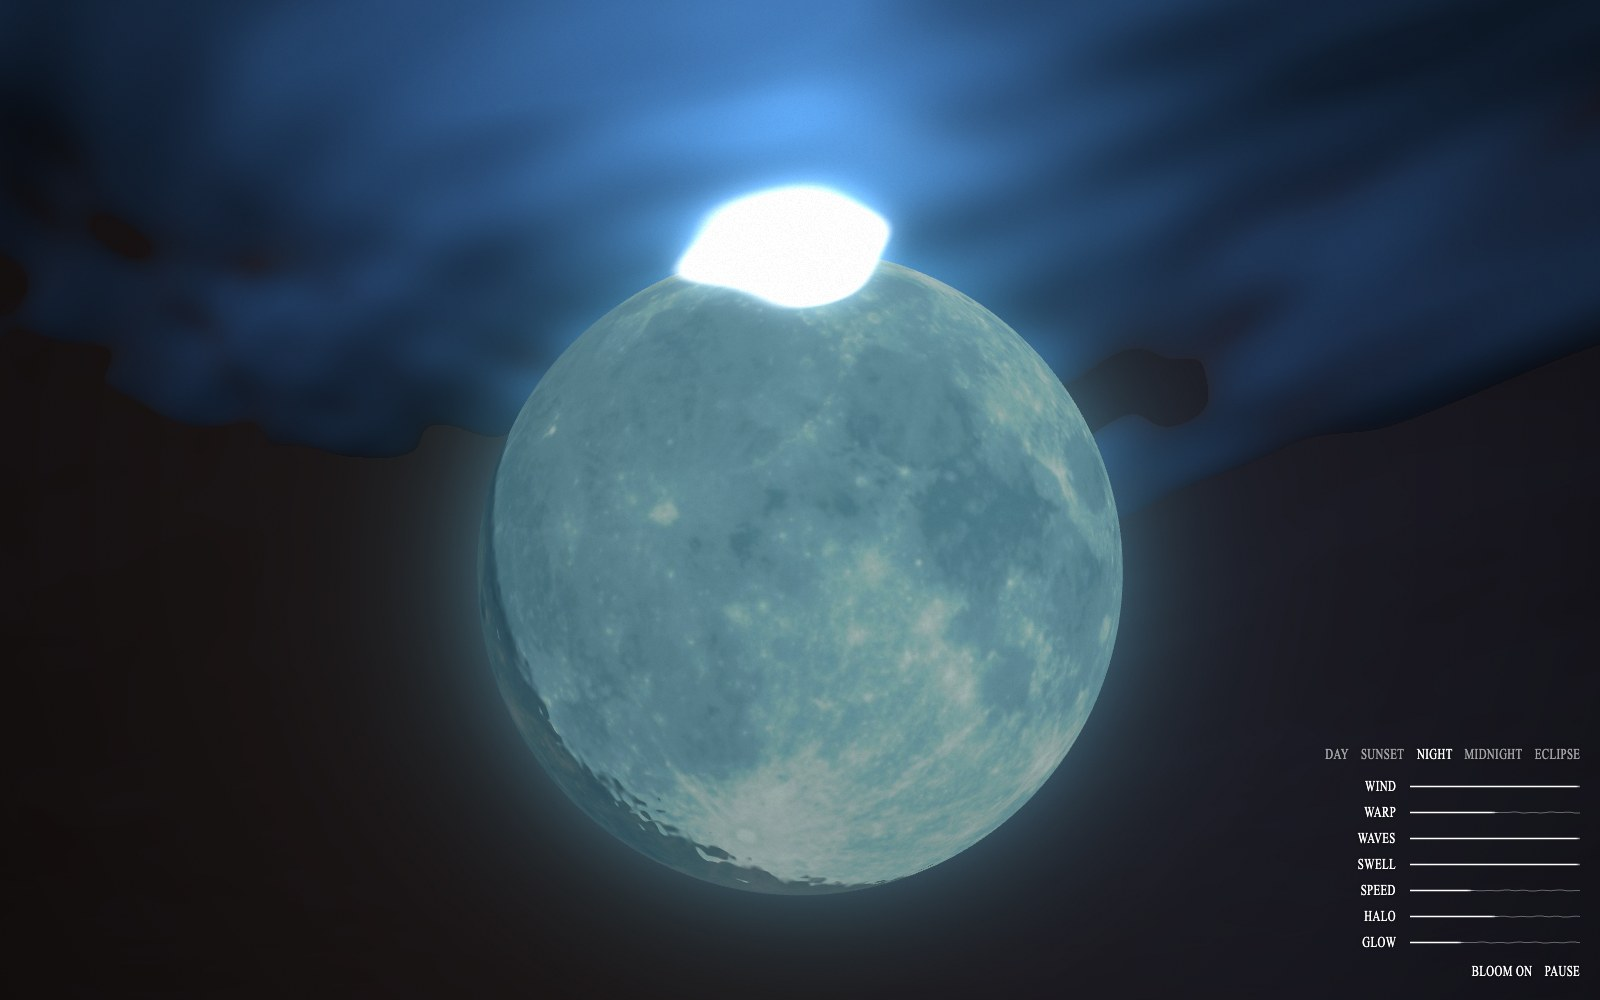
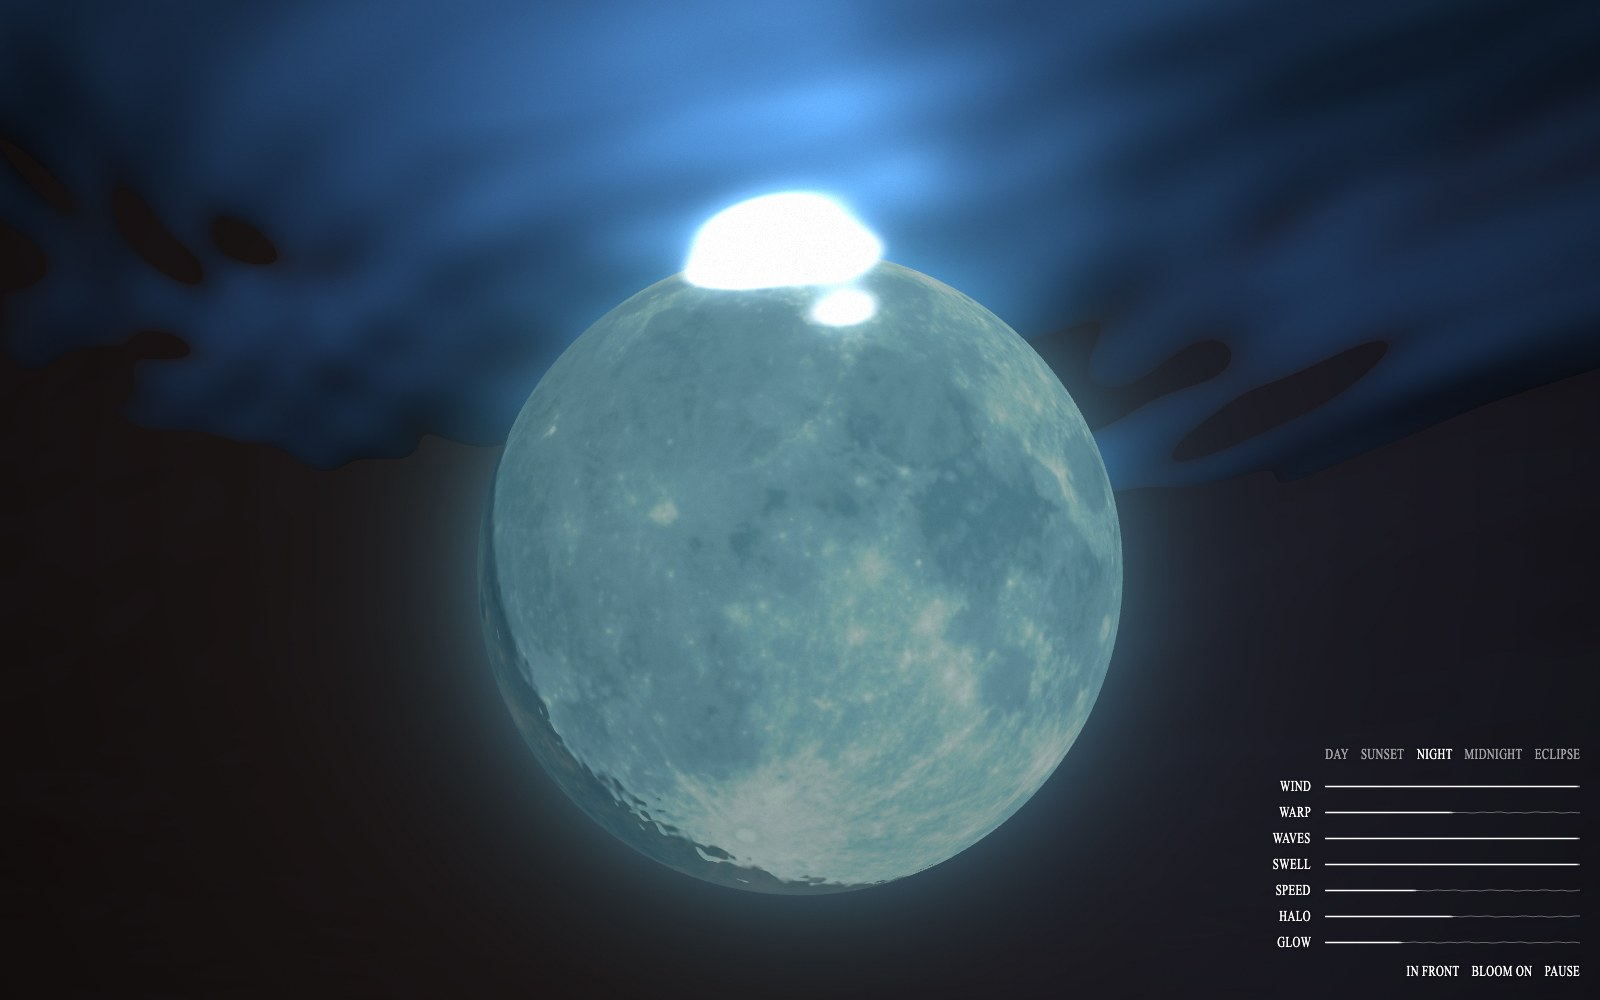
Moon behind the water; lines aligned under the presets
The In front / Behind button moves the moon up behind the surface, where it's
seen through the moving water (off-screen render looked up with refraction
offsets, Fresnel and total internal reflection). The water now has a fixed
anchor so it stays put when the moon moves. Slider lines reach left to line up
under the first sky preset. README screenshots refreshed, two added.

diff --git a/public/games/flymetothemoon/index.html b/public/games/flymetothemoon/index.html
@@ -21,7 +21,7 @@
   #scene.grabbing { cursor: grabbing; }
   .controls {
     position: fixed; right: 20px; bottom: calc(18px + env(safe-area-inset-bottom, 0px));
-    display: grid; grid-template-columns: auto clamp(110px, 18vw, 170px); column-gap: 14px; row-gap: 4px; align-items: center;
+    display: grid; grid-template-columns: auto var(--line-w, clamp(110px, 18vw, 170px)); column-gap: 14px; row-gap: 4px; align-items: center;
     font-family: var(--font-label); font-size: 15px; color: var(--ink);
     text-transform: uppercase; letter-spacing: 0.04em; text-shadow: 0 0 6px rgba(0, 0, 0, 0.55);
   }
@@ -67,6 +67,7 @@
   <label for="halo"><span class="squeeze">Halo</span></label><div class="line"><canvas aria-hidden="true"></canvas><input id="halo" type="range" min="0" max="2" step="0.01" value="1"></div>
   <label for="glow"><span class="squeeze">Glow</span></label><div class="line"><canvas aria-hidden="true"></canvas><input id="glow" type="range" min="0" max="2" step="0.01" value="0.6"></div>
   <div class="buttons">
+    <button id="moonpos" type="button" aria-pressed="false" aria-label="Moon in front of or behind the water"><span class="squeeze">In front</span></button>
     <button id="bloom" type="button" aria-pressed="true"><span class="squeeze">Bloom on</span></button>
     <button id="pause" type="button"><span class="squeeze">Pause</span></button>
   </div>
@@ -104,8 +105,12 @@
   const uniforms = {
     uTime: { value: 0 },
     uRes: { value: new THREE.Vector2(1, 1) },
-    uMoon: { value: new THREE.Vector2(0, 0) },   // moon centre in device pixels (bottom-left origin)
-    uMoonR: { value: 100 },                      // moon radius in device pixels
+    uMoon: { value: new THREE.Vector2(0, 0) },   // the scene's anchor: where the moon sits in the water, device pixels (bottom-left origin)
+    uMoonR: { value: 100 },                      // the moon's radius there, device pixels (the scene's unit)
+    uMoonC: { value: new THREE.Vector2(0, 0) },  // where the moon actually is right now
+    uMoonRC: { value: 100 },                     // and its actual radius
+    uAbove: { value: 0 },                        // 0: moon in the water, 1: moon in the sky above it
+    uMoonTex: { value: null },                   // the moon rendered off-screen, for viewing through the surface
     uSim: { value: null },                       // simulated height field
     uSwell: { value: 0.8 },
     uChop: { value: 0.9 },
@@ -217,7 +222,10 @@
   // =====================================================================================
   const CAM = { FS: 0.25, ALPHA: 0.648, DEPTH: 3.0, TILE: 20.0 };
   const WATER = `
-      uniform float uHaloGain;
+      uniform float uHaloGain, uMoonRC, uAbove;
+      uniform vec2 uMoonC;
+      uniform sampler2D uMoonTex;
+      vec3 gN = vec3(0.0, 1.0, 0.0); float gT = 0.0;   // surface normal and transmission at the last lookUp
       uniform vec3 uDeepL, uDeepR, uUpLight, uSkyLow, uSkyHigh, uGlowA, uGlowB, uHalo, uImage, uBloomTint;
       uniform sampler2D uSim; uniform float uTime, uSwell, uChop, uWarp, uChopMode, uLimit, uScale; uniform vec2 uMoon; uniform float uMoonR;
       const float FS = ${CAM.FS}, ALPHA = ${CAM.ALPHA}, DEPTH = ${CAM.DEPTH.toFixed(1)}, TILE = ${CAM.TILE.toFixed(1)};
@@ -355,17 +363,20 @@
       vec4 lookUp(vec2 s){
         float u = 0.506 + s.x*0.2375;                      // horizontal position across the view, for the palette
         vec3 d = viewRay(s);
+        gT = 0.0;
         if (d.y < 0.03) return vec4(underwater(d, u), 0.0); // looking sideways: just water
         float dist = DEPTH / d.y;
         vec2 xz = d.xz * dist;
         vec3 sl = surfaceSlope(xz, dist);
         vec3 N = normalize(vec3(-sl.x, 1.0, -sl.y));
+        gN = N;
         vec3 r = refract(d, -N, 1.333);
         vec3 deepR = underwater(reflect(d, -N), u);         // the surface's mirror of the water below
         if (dot(r, r) < 1e-6) return vec4(deepR, 0.0);     // total internal reflection
         float cosT = max(dot(r, N), 0.0);
         float F = 0.0204 + 0.9796*pow(1.0 - cosT, 5.0);    // Fresnel (Schlick, from the air side)
         float T = 1.0 - F;
+        gT = T;
         // night sky through the surface: #122238 near the horizon to #295075 high up
         float el = clamp(r.y, 0.0, 1.0);
         vec3 sky = mix(uSkyLow, uSkyHigh, smoothstep(0.05, 0.9, el));
@@ -384,11 +395,20 @@
   bgScene.add(quad(new THREE.ShaderMaterial({
     uniforms, depthTest: false, depthWrite: false, vertexShader: flatVS,
     fragmentShader: WATER + `
+      uniform vec2 uRes;
       void main(){
         vec2 s = screenPos();
         vec3 col = lookUp(s).rgb;
-        // halo: sharp edge, then a short exponential fall-off (#37586c at 1.03R to background by ~1.45R)
-        col += uHalo * uHaloGain * exp(-max(length(s) - 0.99, 0.0)/0.19);
+        // the moon above the water, seen through the moving surface: looked up at a position bent by
+        // the surface's slope, dimmed by Fresnel near the window's edge, gone past the critical angle
+        float vis = uAbove * gT;
+        if (vis > 0.001) {
+          vec4 m = texture2D(uMoonTex, gl_FragCoord.xy/uRes + vec2(gN.x, gN.z)*0.08);
+          col = col*(1.0 - m.a*vis) + m.rgb*vis;
+        }
+        // halo around wherever the moon is: sharp edge, then a short exponential fall-off
+        vec2 sm = (gl_FragCoord.xy - uMoonC) / uMoonRC;
+        col += uHalo * uHaloGain * exp(-max(length(sm) - 0.99, 0.0)/0.19) * mix(1.0, gT, uAbove);
         gl_FragColor = vec4(col, 1.0);
       }`
   })));
@@ -412,6 +432,7 @@
     uMoonMul: { value: new THREE.Vector3(1, 1, 1) },      // tint
     uMoonMix: { value: new THREE.Vector4(1, 1, 1, 0) },   // colour to wash toward, and how far
     uMoonDark: { value: new THREE.Vector3() },            // colour of the shadowed crescent
+    uMoonFade: { value: 1 },                              // overall opacity (cross-fade when it moves into the sky)
     uMoonSee: { value: 0 },                               // daytime see-through: dark seas let the sky show
     uRelief: { value: 0 },                                // crater relief across the whole face (0 = only at the shadow edge)
   };
@@ -440,7 +461,7 @@
           gl_Position = projectionMatrix * modelViewMatrix * vec4(position,1.0);
         }`,
       fragmentShader: `
-        uniform sampler2D uMap, uNormal; uniform vec3 uLight, uMoonMul, uMoonDark; uniform vec4 uMoonMix; uniform float uMoonSee, uRelief;
+        uniform sampler2D uMap, uNormal; uniform vec3 uLight, uMoonMul, uMoonDark; uniform vec4 uMoonMix; uniform float uMoonSee, uRelief, uMoonFade;
         varying vec2 vUv; varying vec3 vN; varying vec3 vT;
         void main(){
           vec3 albedo = texture2D(uMap, vUv, 1.6).rgb;
@@ -467,7 +488,7 @@
           // brightest highlands stay solid
           float bright = smoothstep(0.43, 0.66, dot(albedo, vec3(0.2126, 0.7152, 0.0722)));
           float see = mix(1.0, bright, uMoonSee);
-          gl_FragColor = vec4(col, smoothstep(0.0, 0.16, N.z) * see);
+          gl_FragColor = vec4(col, smoothstep(0.0, 0.16, N.z) * see * uMoonFade);
         }`
     })
   );
@@ -488,7 +509,7 @@
         vec2 s = screenPos();
         if (viewRay(s).y < 0.03) { gl_FragColor = vec4(0.0); return; }
         float m = lookUp(s).w;
-        gl_FragColor = vec4(uImage, clamp(m*1.15, 0.0, 1.0));
+        gl_FragColor = vec4(uImage, clamp(m*1.15, 0.0, 1.0) * (1.0 - 0.92*uAbove));
       }`
   })));
 
@@ -508,7 +529,7 @@
           vec2 sp = (base + o - uMoon) / uMoonR; sp.y = -sp.y;
           if (viewRay(sp).y >= 0.03) acc += lookUp(sp).w;
         }
-        gl_FragColor = vec4(uBloomTint * acc * 0.25 * uGlow, 1.0);
+        gl_FragColor = vec4(uBloomTint * acc * 0.25 * uGlow * (1.0 - 0.92*uAbove), 1.0);
       }`
   })));
   const blurMat = new THREE.ShaderMaterial({
@@ -598,13 +619,17 @@
     const radius = Math.max(0.016, Math.min(0.027, 0.068 / p[2]));
     if (drops.length < 8) drops.push(new THREE.Vector4(u, v, strength, radius));
   }
-  const onMoon = s => Math.hypot(s[0], s[1]) < 1.0;
+  const onMoon = e => {
+    const pr = renderer.getPixelRatio();
+    const fx = e.clientX * pr, fy = (window.innerHeight - e.clientY) * pr;
+    return Math.hypot(fx - uniforms.uMoonC.value.x, fy - uniforms.uMoonC.value.y) < uniforms.uMoonRC.value;
+  };
 
   canvas.addEventListener('pointerdown', e => {
     const s = toS(e);
     canvas.setPointerCapture(e.pointerId);
     last = { x: e.clientX, y: e.clientY, t: performance.now() };
-    if (onMoon(s)) {
+    if (onMoon(e)) {
       grabbing = true; touched = true; omega.set(0, 0, 0);   // caught
       lastMoveAt = last.t; canvas.classList.add('grabbing');
     } else {
@@ -613,7 +638,7 @@
   });
   canvas.addEventListener('pointermove', e => {
     const s = toS(e);
-    canvas.classList.toggle('over-moon', onMoon(s));
+    canvas.classList.toggle('over-moon', onMoon(e));
     if (stirring) {
       if (Math.hypot(e.clientX - last.x, e.clientY - last.y) > 10) { dropAt(s[0], s[1], 0.01); last = { x: e.clientX, y: e.clientY, t: performance.now() }; }
       return;
@@ -624,7 +649,7 @@
     const dt = Math.max((now - last.t) / 1000, 1 / 240);
     const dist = Math.hypot(dx, dy);
     if (dist > 0) {
-      const rCss = uniforms.uMoonR.value / renderer.getPixelRatio();
+      const rCss = uniforms.uMoonRC.value / renderer.getPixelRatio();
       const angle = dist / rCss;
       const axis = screenAxis(dx, dy).clone();
       rotateBy(axis, angle);
@@ -656,6 +681,13 @@
   document.getElementById('halo').addEventListener('input', e => uniforms.uHaloGain.value = parseFloat(e.target.value));
   document.getElementById('glow').addEventListener('input', e => glowU.value = parseFloat(e.target.value));
   let bloomOn = true;
+  const moonBtn = document.getElementById('moonpos');
+  moonBtn.addEventListener('click', () => {
+    aboveTo = aboveTo ? 0 : 1;
+    moonBtn.firstElementChild.textContent = aboveTo ? 'Behind' : 'In front';
+    moonBtn.setAttribute('aria-pressed', String(!!aboveTo));
+    tightenRows();
+  });
   const bloomBtn = document.getElementById('bloom');
   bloomBtn.addEventListener('click', () => {
     bloomOn = !bloomOn;
@@ -667,6 +699,8 @@
   const pauseBtn = document.getElementById('pause');
   pauseBtn.addEventListener('click', () => { paused = !paused; pauseBtn.firstElementChild.textContent = paused ? 'Play' : 'Pause'; tightenRows(); });
 
+  const rtMoon = new THREE.WebGLRenderTarget(2, 2, { minFilter: THREE.LinearFilter, magFilter: THREE.LinearFilter });
+  uniforms.uMoonTex.value = rtMoon.texture;
   function resize() {
     const w = window.innerWidth, h = window.innerHeight;
     renderer.setSize(w, h, false);
@@ -677,23 +711,31 @@
     uniforms.uRes.value.set(w * pr, h * pr);
     rtA.setSize(Math.max(1, Math.round(w * pr / 4)), Math.max(1, Math.round(h * pr / 4)));
     rtB.setSize(rtA.width, rtA.height);
+    rtMoon.setSize(Math.round(w * pr), Math.round(h * pr));
   }
   window.addEventListener('resize', resize);
   resize();
 
   const centre = new THREE.Vector3();
-  function updateMoonScreen() {
-    moonGroup.getWorldPosition(centre);
-    const dist = centre.distanceTo(camera.position);
-    centre.project(camera);
+  // The water is laid out around a fixed anchor (where the moon sits in the water), so it stays put
+  // when the moon moves up into the sky; the halo and the pointer follow the moon itself.
+  const ANCHOR = new THREE.Vector3(0, -0.5, 0);
+  function project(point, radius, outPos) {
+    const dist = point.distanceTo(camera.position);
+    const p = point.clone().project(camera);
     const res = uniforms.uRes.value;
-    uniforms.uMoon.value.set((centre.x * 0.5 + 0.5) * res.x, (centre.y * 0.5 + 0.5) * res.y);
+    outPos.set((p.x * 0.5 + 0.5) * res.x, (p.y * 0.5 + 0.5) * res.y);
     const focal = (res.y / 2) / Math.tan(THREE.MathUtils.degToRad(camera.fov / 2));
-    uniforms.uMoonR.value = focal * MOON_R / Math.sqrt(Math.max(dist * dist - MOON_R * MOON_R, 1e-3));
+    return focal * radius / Math.sqrt(Math.max(dist * dist - radius * radius, 1e-3));
+  }
+  function updateMoonScreen() {
+    uniforms.uMoonR.value = project(ANCHOR, MOON_R, uniforms.uMoon.value);
+    moonGroup.getWorldPosition(centre);
+    uniforms.uMoonRC.value = project(centre, MOON_R * moonGroup.scale.x, uniforms.uMoonC.value);
   }
 
   const clock = new THREE.Clock();
-  let t = 0, wt = 0, simBudget = 0;
+  let t = 0, wt = 0, simBudget = 0, aboveT = 0, aboveTo = 0;
   let waveSpeed = 0.6;
   function frame() {
     const dt = Math.min(clock.getDelta(), 0.05);
@@ -719,14 +761,27 @@
     camera.position.x = Math.sin(t * 0.2) * 0.25 * drift;
     camera.position.y = Math.sin(t * 0.15) * 0.15 * drift;
     camera.lookAt(0, 0.2, 0);
-    moonGroup.position.y = -0.5 + Math.sin(t * 0.3) * 0.05;
+    // into the sky: up into the bright window and smaller, as if far above
+    if (aboveT !== aboveTo) aboveT = reduceMotion ? aboveTo : Math.max(0, Math.min(1, aboveT + Math.sign(aboveTo - aboveT) * dt/1.4));
+    const up = aboveT*aboveT*(3 - 2*aboveT);
+    uniforms.uAbove.value = up;
+    moonGroup.position.y = -0.5 + 3.34*up + Math.sin(t * 0.3) * 0.05;
+    moonGroup.scale.setScalar(1 - 0.38*up);
     updateMoonScreen();
 
     if (bloomOn) renderBloom();
     renderer.setRenderTarget(null);
     renderer.clear();
+    if (up > 0.001) {                           // the moon off-screen, to be seen through the surface
+      moonUniforms.uMoonFade.value = 1;
+      renderer.setClearColor(0x000000, 0);
+      renderer.setRenderTarget(rtMoon); renderer.clear(); renderer.render(scene, camera);
+      renderer.setRenderTarget(null); renderer.setClearColor(CLEAR, 1);
+      renderer.clear();
+    }
     renderer.render(bgScene, flatCam);
-    renderer.render(scene, camera);
+    moonUniforms.uMoonFade.value = 1 - up;
+    if (up < 0.999) renderer.render(scene, camera);
     renderer.render(glintScene, flatCam);       // the moon's image, in front of the big moon
     if (bloomOn) renderer.render(bloomScene, flatCam);
     renderer.render(overlayScene, flatCam);
@@ -845,6 +900,17 @@
     });
   }
   tightenRows();
+  // the lines reach left to sit under the first preset (DAY)
+  function alignLines() {
+    const controls = document.getElementById('controls');
+    const first = document.querySelector('.presets .squeeze');
+    const line = document.querySelector('.line');
+    if (!first || !line) return;
+    const w = Math.round(line.getBoundingClientRect().right - first.getBoundingClientRect().left);
+    if (w > 60) controls.style.setProperty('--line-w', w + 'px');
+  }
+  alignLines();
+  window.addEventListener('resize', () => { document.getElementById('controls').style.removeProperty('--line-w'); alignLines(); });
   applySky(2);
 
   // Settings from the address, e.g. ?sky=sunset&waves=1.2&swell=1.2&speed=0.3&bloom=0&turn=90&ui=0
@@ -857,6 +923,7 @@
     goToSky(named >= 0 ? named : Math.min(4, Math.max(0, parseFloat(v) || 0)), true);
   }
   if (q.get('bloom') === '0') bloomBtn.click();
+  if (/^(behind|above|sky)$/.test(q.get('moon') || '')) { moonBtn.click(); aboveT = 1; }
   if (q.has('turn')) rotateBy(new THREE.Vector3(0, 1, 0), THREE.MathUtils.degToRad(parseFloat(q.get('turn')) || 0));
   if (q.get('ui') === '0') document.getElementById('controls').classList.add('hidden-ui');
 

diff --git a/README.md b/README.md
@@ -54,6 +54,14 @@ Drag the moon to spin it. Let go mid-drag to throw it; press on it while it's tu
 
 ![A clean frame](docs/screenshots/09-clean.jpg)
 
+### In front of or behind the water
+
+The **In front** button sends the moon up behind the surface (it then reads **Behind**). It glides up into the bright window and shrinks, as if far above, and from then on you see it through the water: it's rendered off-screen each frame and looked up at a position bent by the surface's slope, so the waves wobble it, it dims toward the window's edge where less light gets through, and it disappears past the critical angle, where its lower edge dips into the dark water. The bright reflection fades to a faint shimmer so there aren't two moons, and the halo follows it up. You can still spin it.
+
+![The moon behind the water at night](docs/screenshots/18-moon-behind.jpg)
+
+![The moon behind the water by day](docs/screenshots/19-moon-behind-day.jpg)
+
 ### The sky
 
 Five sky presets, at the top of the controls, set the time of day. Every colour in the scene comes from one palette: the water on both sides, the light falling from above, the sky seen through the surface and the glow around the moon in it, the reflection and its bloom, the halo, and the moon's own tint, shadow and crater relief. Pressing a preset fades every colour across to the new look over about a second.
@@ -84,7 +92,7 @@ Halfway through the fade from Day to Sunset:
 
 ## Controls
 
-The controls sit in the lower right as plain white lines: solid up to the current value, then blending quickly into a faint line that barely wobbles. Drag along a line, or focus it and use the arrow keys.
+The controls sit in the lower right: the sky presets along the top, then plain white lines that reach left to line up under the first preset, solid up to the current value and blending quickly into a faint line that barely wobbles, then a row of buttons. Drag along a line, or focus it and use the arrow keys.
 
 ![The line controls](docs/screenshots/11-controls.jpg)
 
@@ -98,6 +106,7 @@ The controls sit in the lower right as plain white lines: solid up to the curren
 | Speed | How fast all the water moves (also slows the simulation) | 0.1 – 1.5 | 0.6 |
 | Halo | Strength of the glow around the big moon (on top of what the sky sets) | 0 – 2 | 1 |
 | Glow | Strength of the bloom | 0 – 2 | 0.6 |
+| In front / Behind | Moon in the water, or up in the sky behind the surface | | In front |
 | Bloom on/off | Turns the bloom off entirely | | on |
 | Pause | Freezes the water and the moon | | |
 
@@ -113,6 +122,7 @@ Every control can be set from the address, which is how the screenshots here wer
 ?wind=0.1&waves=0.3&swell=0.3     calm water
 ?wind=1.2&waves=1.2&swell=1.2     rough water
 ?speed=0.3                        slow motion
+?moon=behind                      start with the moon behind the water
 ?halo=0                           no glow around the moon
 ?bloom=0                          bloom off
 ?turn=140                         turn the moon 140° to start
